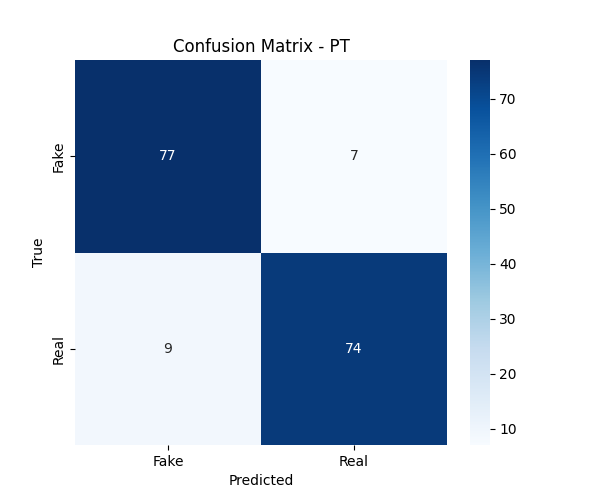
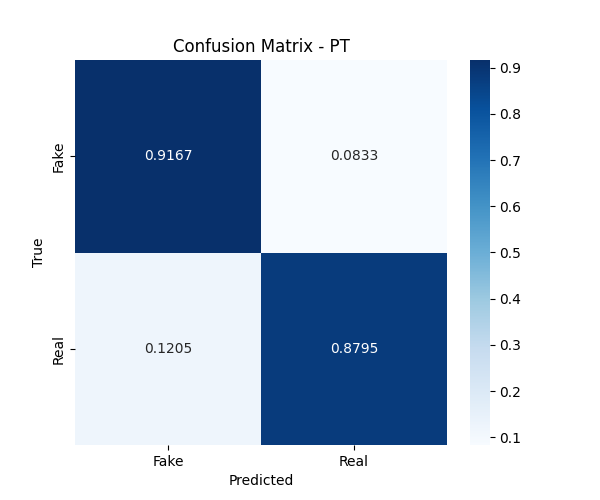
Add files via upload

diff --git a/transformer.py b/transformer.py
@@ -13,6 +13,7 @@ from collections import Counter
 import os
 
 # ======= Configurações por idioma =======
+# Define modelo, parâmetros de ajuste fino e nome de arquivo para cada idioma
 LANG_SETTINGS = {
     'en': {
         'model_name': 'prajjwal1/bert-tiny',
@@ -48,7 +49,7 @@ for language in ['en', 'pt']:
 
     device = torch.device("cuda" if torch.cuda.is_available() else "cpu")
     print(f"Usando dispositivo: {device}")
-
+    # Carregamento e preparação dos dados com limpeza e balanceamento
     df = load_and_prepare_data(
         language=language,
         use_title=False,
@@ -58,14 +59,14 @@ for language in ['en', 'pt']:
 
     X = df['text'].tolist()
     y = df['label'].tolist()
-
+    # Separação dos dados em treino, validação e teste
     from sklearn.model_selection import train_test_split
     X_train, X_temp, y_train, y_temp = train_test_split(X, y, test_size=0.2, stratify=y, random_state=42)
     X_valid, X_test, y_valid, y_test = train_test_split(X_temp, y_temp, test_size=0.3, stratify=y_temp, random_state=42)
 
     def avg_length(texts):
         return np.mean([len(text) for text in texts])
-
+    # Estatísticas básicas pós-split
     print("\n=== Verificação Pós-Split ===")
     print("Comprimento médio:")
     print(f"Treino: {avg_length(X_train):.1f} chars")
@@ -75,12 +76,12 @@ for language in ['en', 'pt']:
     print("Distribuição das classes no treino:", Counter(y_train))
     print("Distribuição das classes no val:", Counter(y_valid))
     print("Distribuição das classes no test:", Counter(y_test))
-
+    # Tokenizador adequado ao idioma e modelo
     tokenizer = BertTokenizer.from_pretrained(model_name)
 
     def tokenize(texts):
         return tokenizer(texts, truncation=True, padding=True, max_length=params['max_length'], return_tensors="pt")
-
+    # Tokenização dos dados
     print("Tokenizando os dados...")
     train_encodings = tokenize(X_train)
     print("Tokenização do treino completa.")
@@ -88,7 +89,7 @@ for language in ['en', 'pt']:
     print("Tokenização de validação completa.")
     test_encodings = tokenize(X_test)
     print("Tokenização de teste completa.")
-
+    # Dataset personalizado para compatibilizar com o DataLoader
     class FakeNewsDataset(Dataset):
         def __init__(self, encodings, labels):
             self.encodings = encodings
@@ -99,13 +100,13 @@ for language in ['en', 'pt']:
             item = {key: val[idx] for key, val in self.encodings.items()}
             item['labels'] = self.labels[idx]
             return item
-
+    # Instanciando datasets e dataloaders
     train_dataset = FakeNewsDataset(train_encodings, y_train)
     valid_dataset = FakeNewsDataset(valid_encodings, y_valid)
     test_dataset = FakeNewsDataset(test_encodings, y_test)
 
     from torch.utils.data import WeightedRandomSampler
-
+    # Balanceamentos de classe com WeightedRandomSampler
     class_counts = np.bincount(y_train)
     class_weights = 1. / torch.tensor(class_counts, dtype=torch.float32)
     sample_weights = class_weights[y_train]
@@ -127,18 +128,18 @@ for language in ['en', 'pt']:
     train_loader = DataLoader(train_dataset, batch_size=params['batch_size'], shuffle=True)
     valid_loader = DataLoader(valid_dataset, batch_size=params['batch_size'])
     test_loader = DataLoader(test_dataset, batch_size=params['batch_size'])
-
+    # Configuração do modelo BERT para classificação binária
     config = BertConfig.from_pretrained(model_name, num_labels=2, hidden_dropout_prob=0.6, attention_probs_dropout_prob=0.6, classifier_dropout=0.5, layer_norm_eps=1e-6)
     model = BertForSequenceClassification.from_pretrained(model_name, config=config)
     model.to(device)
-
+    # Otimizador e agendador de taxa de aprendizado
     optimizer = optim.AdamW(model.parameters(), lr=params['learning_rate'], weight_decay=params['weight_decay'])
     torch.nn.utils.clip_grad_norm_(model.parameters(), max_norm=1.0)
 
     total_steps = len(train_loader) * params['epochs']
     scheduler = get_linear_schedule_with_warmup(optimizer, num_warmup_steps=0, num_training_steps=total_steps)
     criterion = torch.nn.CrossEntropyLoss()
-
+    # Função de treino
     def train():
         model.train()
         total_loss, correct = 0, 0
@@ -159,7 +160,7 @@ for language in ['en', 'pt']:
             correct += (preds == labels).sum().item()
 
         return total_loss / len(train_loader), correct / len(train_dataset)
-
+    # Função de avaliação no conjunto de validação
     def evaluate():
         model.eval()
         total_loss, correct = 0, 0
@@ -177,7 +178,7 @@ for language in ['en', 'pt']:
                 correct += (preds == labels).sum().item()
 
         return total_loss / len(valid_loader), correct / len(valid_dataset)
-
+    # Loop de treinamento principal
     print("Iniciando treino...")
     for epoch in range(params['epochs']):
         print(f"Epoch {epoch+1}/{params['epochs']}")
@@ -187,10 +188,11 @@ for language in ['en', 'pt']:
         
         print(f"Train Loss: {train_loss:.4f}, Accuracy: {train_acc:.4f}")
         print(f"Valid Loss: {val_loss:.4f}, Accuracy: {val_acc:.4f}")
-
+    # Salvar pesos do modelo treinado
     torch.save(model.state_dict(), output_file)
     print(f"Modelo salvo em: {output_file}")
-
+    
+    # Avaliação no conjunto de teste
     model.eval()
     all_preds, all_labels, all_probs = [], [], []
     with torch.no_grad():
@@ -206,13 +208,14 @@ for language in ['en', 'pt']:
             all_preds.extend(preds.cpu().numpy())
             all_labels.extend(labels.cpu().numpy())
             all_probs.extend(probs.cpu().numpy())
-
+    # Relatório de classificação completo
     print("\nClassification Report:")
     print(classification_report(all_labels, all_preds, target_names=['Fake', 'Real']))
 
-    conf_matrix = confusion_matrix(all_labels, all_preds)
+    # ======= Matriz de confusão relativa =======
+    conf_matrix = confusion_matrix(all_labels, all_preds, normalize='true')
     plt.figure(figsize=(6, 5))
-    sns.heatmap(conf_matrix, annot=True, fmt='d', cmap='Blues', xticklabels=['Fake', 'Real'], yticklabels=['Fake', 'Real'])
+    sns.heatmap(conf_matrix, annot=True, fmt='.4f', cmap='Blues', xticklabels=['Fake', 'Real'], yticklabels=['Fake', 'Real'])
     plt.xlabel("Predicted")
     plt.ylabel("True")
     plt.title(f"Confusion Matrix - {language.upper()}")

diff --git a/train_model.py b/train_model.py
@@ -1,9 +1,11 @@
 import pandas as pd
 from sklearn.feature_extraction.text import TfidfVectorizer
 from sklearn.linear_model import LogisticRegression
-from sklearn.model_selection import train_test_split
+from sklearn.model_selection import StratifiedKFold, cross_val_predict
 from sklearn.metrics import classification_report, confusion_matrix
 import joblib
+import matplotlib.pyplot as plt
+import seaborn as sns
 from data_preprocessing import load_and_prepare_data
 
 # ====== Configurações por idioma ======
@@ -21,30 +23,42 @@ LANG_SETTINGS = {
 }
 
 for language in ['en', 'pt']:
-    print(f"\nTreinando modelo de regressão logística para: {language.upper()}")
+    print(f"\nTreinando modelo de regressão logística com validação cruzada para: {language.upper()}")
 
     # ====== Carregamento e preprocessamento ======
     df = load_and_prepare_data(language=language, use_title=LANG_SETTINGS[language]['use_title'], balance_classes=True)
     X = df['text']
     y = df['label']
 
-    X_train, X_test, y_train, y_test = train_test_split(X, y, stratify=y, test_size=0.2, random_state=42)
-
     # ====== Vetorização ======
     vectorizer = TfidfVectorizer(max_features=5000, ngram_range=(1,2))
-    X_train_vec = vectorizer.fit_transform(X_train)
-    X_test_vec = vectorizer.transform(X_test)
+    X_vec = vectorizer.fit_transform(X)
 
     # ====== Modelo ======
     model = LogisticRegression(max_iter=1000, class_weight='balanced')
-    model.fit(X_train_vec, y_train)
+
+    # ====== Validação cruzada (Stratified K-Fold) ======
+    skf = StratifiedKFold(n_splits=10, shuffle=True, random_state=42)
+    y_pred = cross_val_predict(model, X_vec, y, cv=skf)
 
     # ====== Avaliação ======
-    y_pred = model.predict(X_test_vec)
     print("\nClassification Report:")
-    print(classification_report(y_test, y_pred, target_names=['Fake', 'Real']))
+    print(classification_report(y, y_pred, target_names=['Fake', 'Real']))
     print("\nConfusion Matrix:")
-    print(confusion_matrix(y_test, y_pred))
+    print(confusion_matrix(y, y_pred))
+
+    # ====== Matriz de confusão relativa ======
+    conf_matrix = confusion_matrix(y, y_pred, normalize='true')
+    plt.figure(figsize=(6, 5))
+    sns.heatmap(conf_matrix, annot=True, fmt='.4f', cmap='Blues', xticklabels=['Fake', 'Real'], yticklabels=['Fake', 'Real'])
+    plt.xlabel("Predicted")
+    plt.ylabel("True")
+    plt.title(f"Confusion Matrix - {language.upper()} (Normalized)")
+    plt.savefig(f'matrix_logreg_{language}_relative.png')
+    plt.show()
+
+    # ====== Treinamento final com todos os dados ======
+    model.fit(X_vec, y)
 
     # ====== Salvando ======
     joblib.dump(model, LANG_SETTINGS[language]['model_out'])
